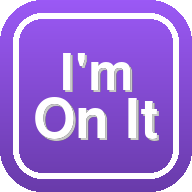
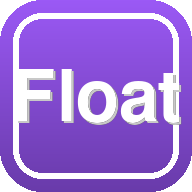
Rename app to Float
https://claude.ai/code/session_019yC2ia9LqH64hL913K5utQ

Changed region(s): [[0.0938, 0.25, 0.9688, 0.75]]

diff --git a/index.html b/index.html
@@ -5,9 +5,9 @@
   <meta name="viewport" content="width=device-width, initial-scale=1, viewport-fit=cover">
   <meta name="apple-mobile-web-app-capable" content="yes">
   <meta name="apple-mobile-web-app-status-bar-style" content="default">
-  <meta name="apple-mobile-web-app-title" content="I'm On It">
+  <meta name="apple-mobile-web-app-title" content="Float">
   <meta name="theme-color" content="#7c5cbf">
-  <title>I'm On It</title>
+  <title>Float</title>
   <link rel="manifest" href="manifest.json">
   <link rel="apple-touch-icon" href="icons/icon-192.png">
   <link rel="stylesheet" href="style.css">
